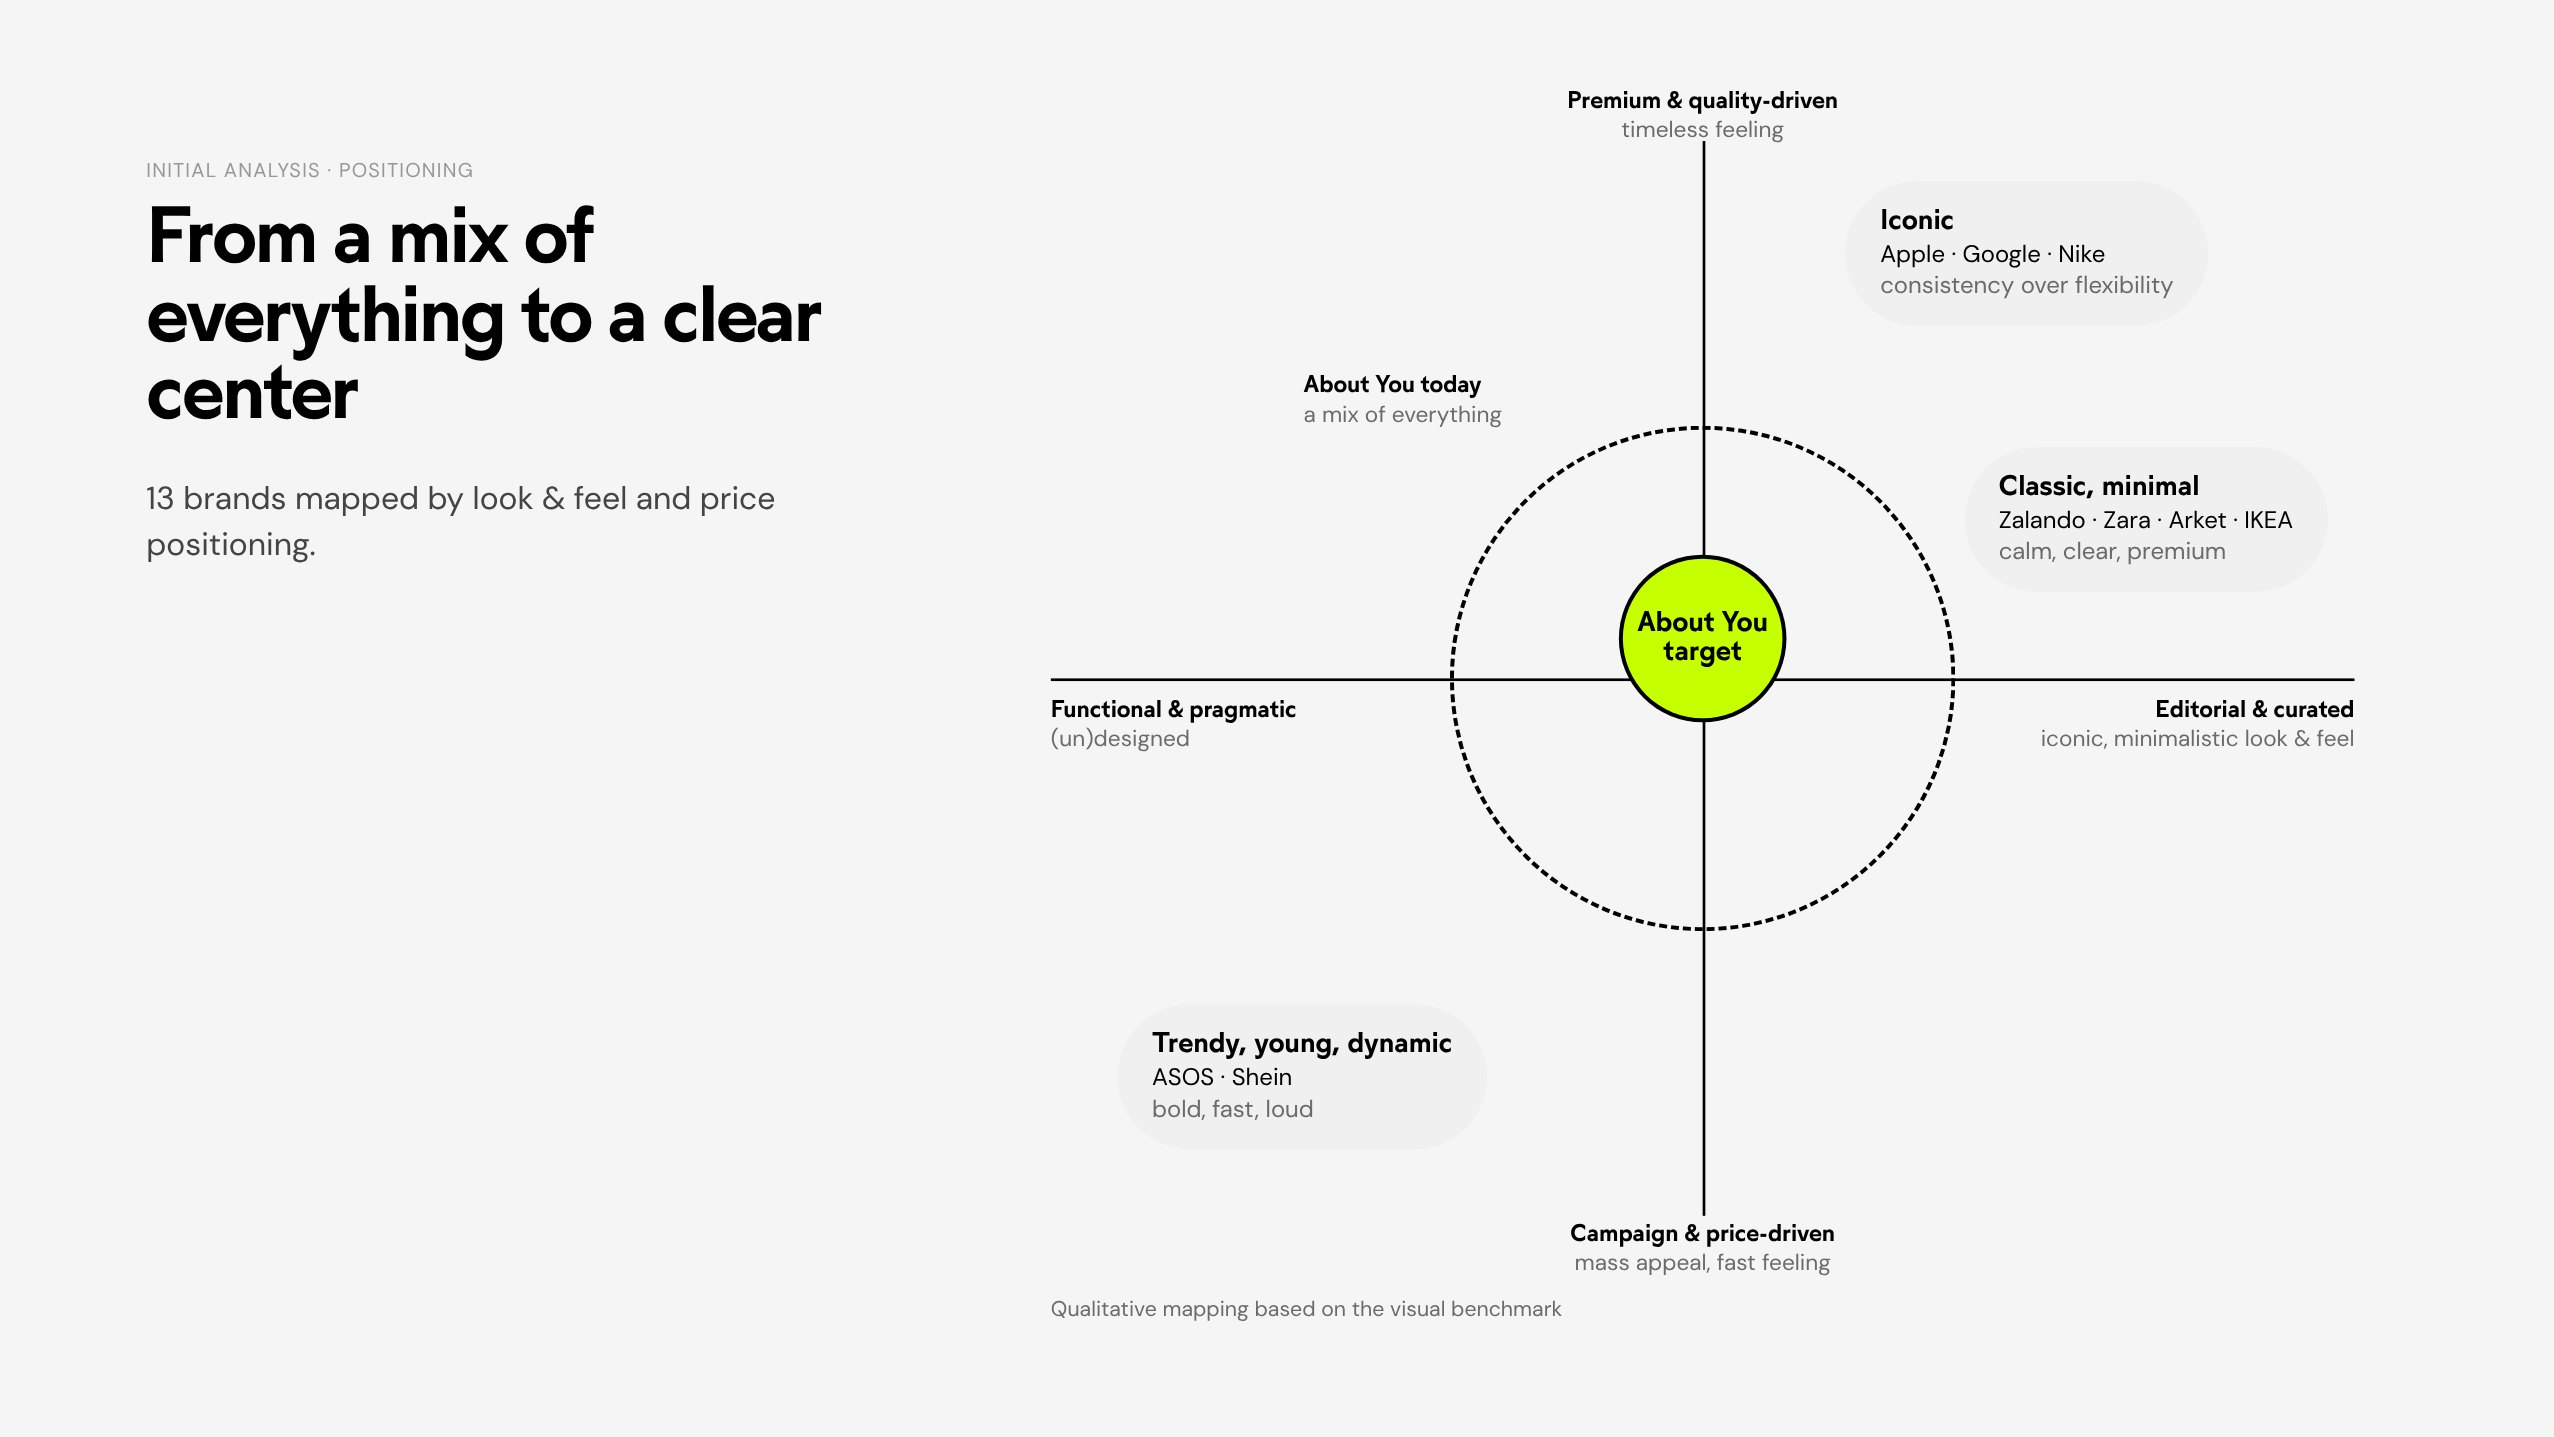
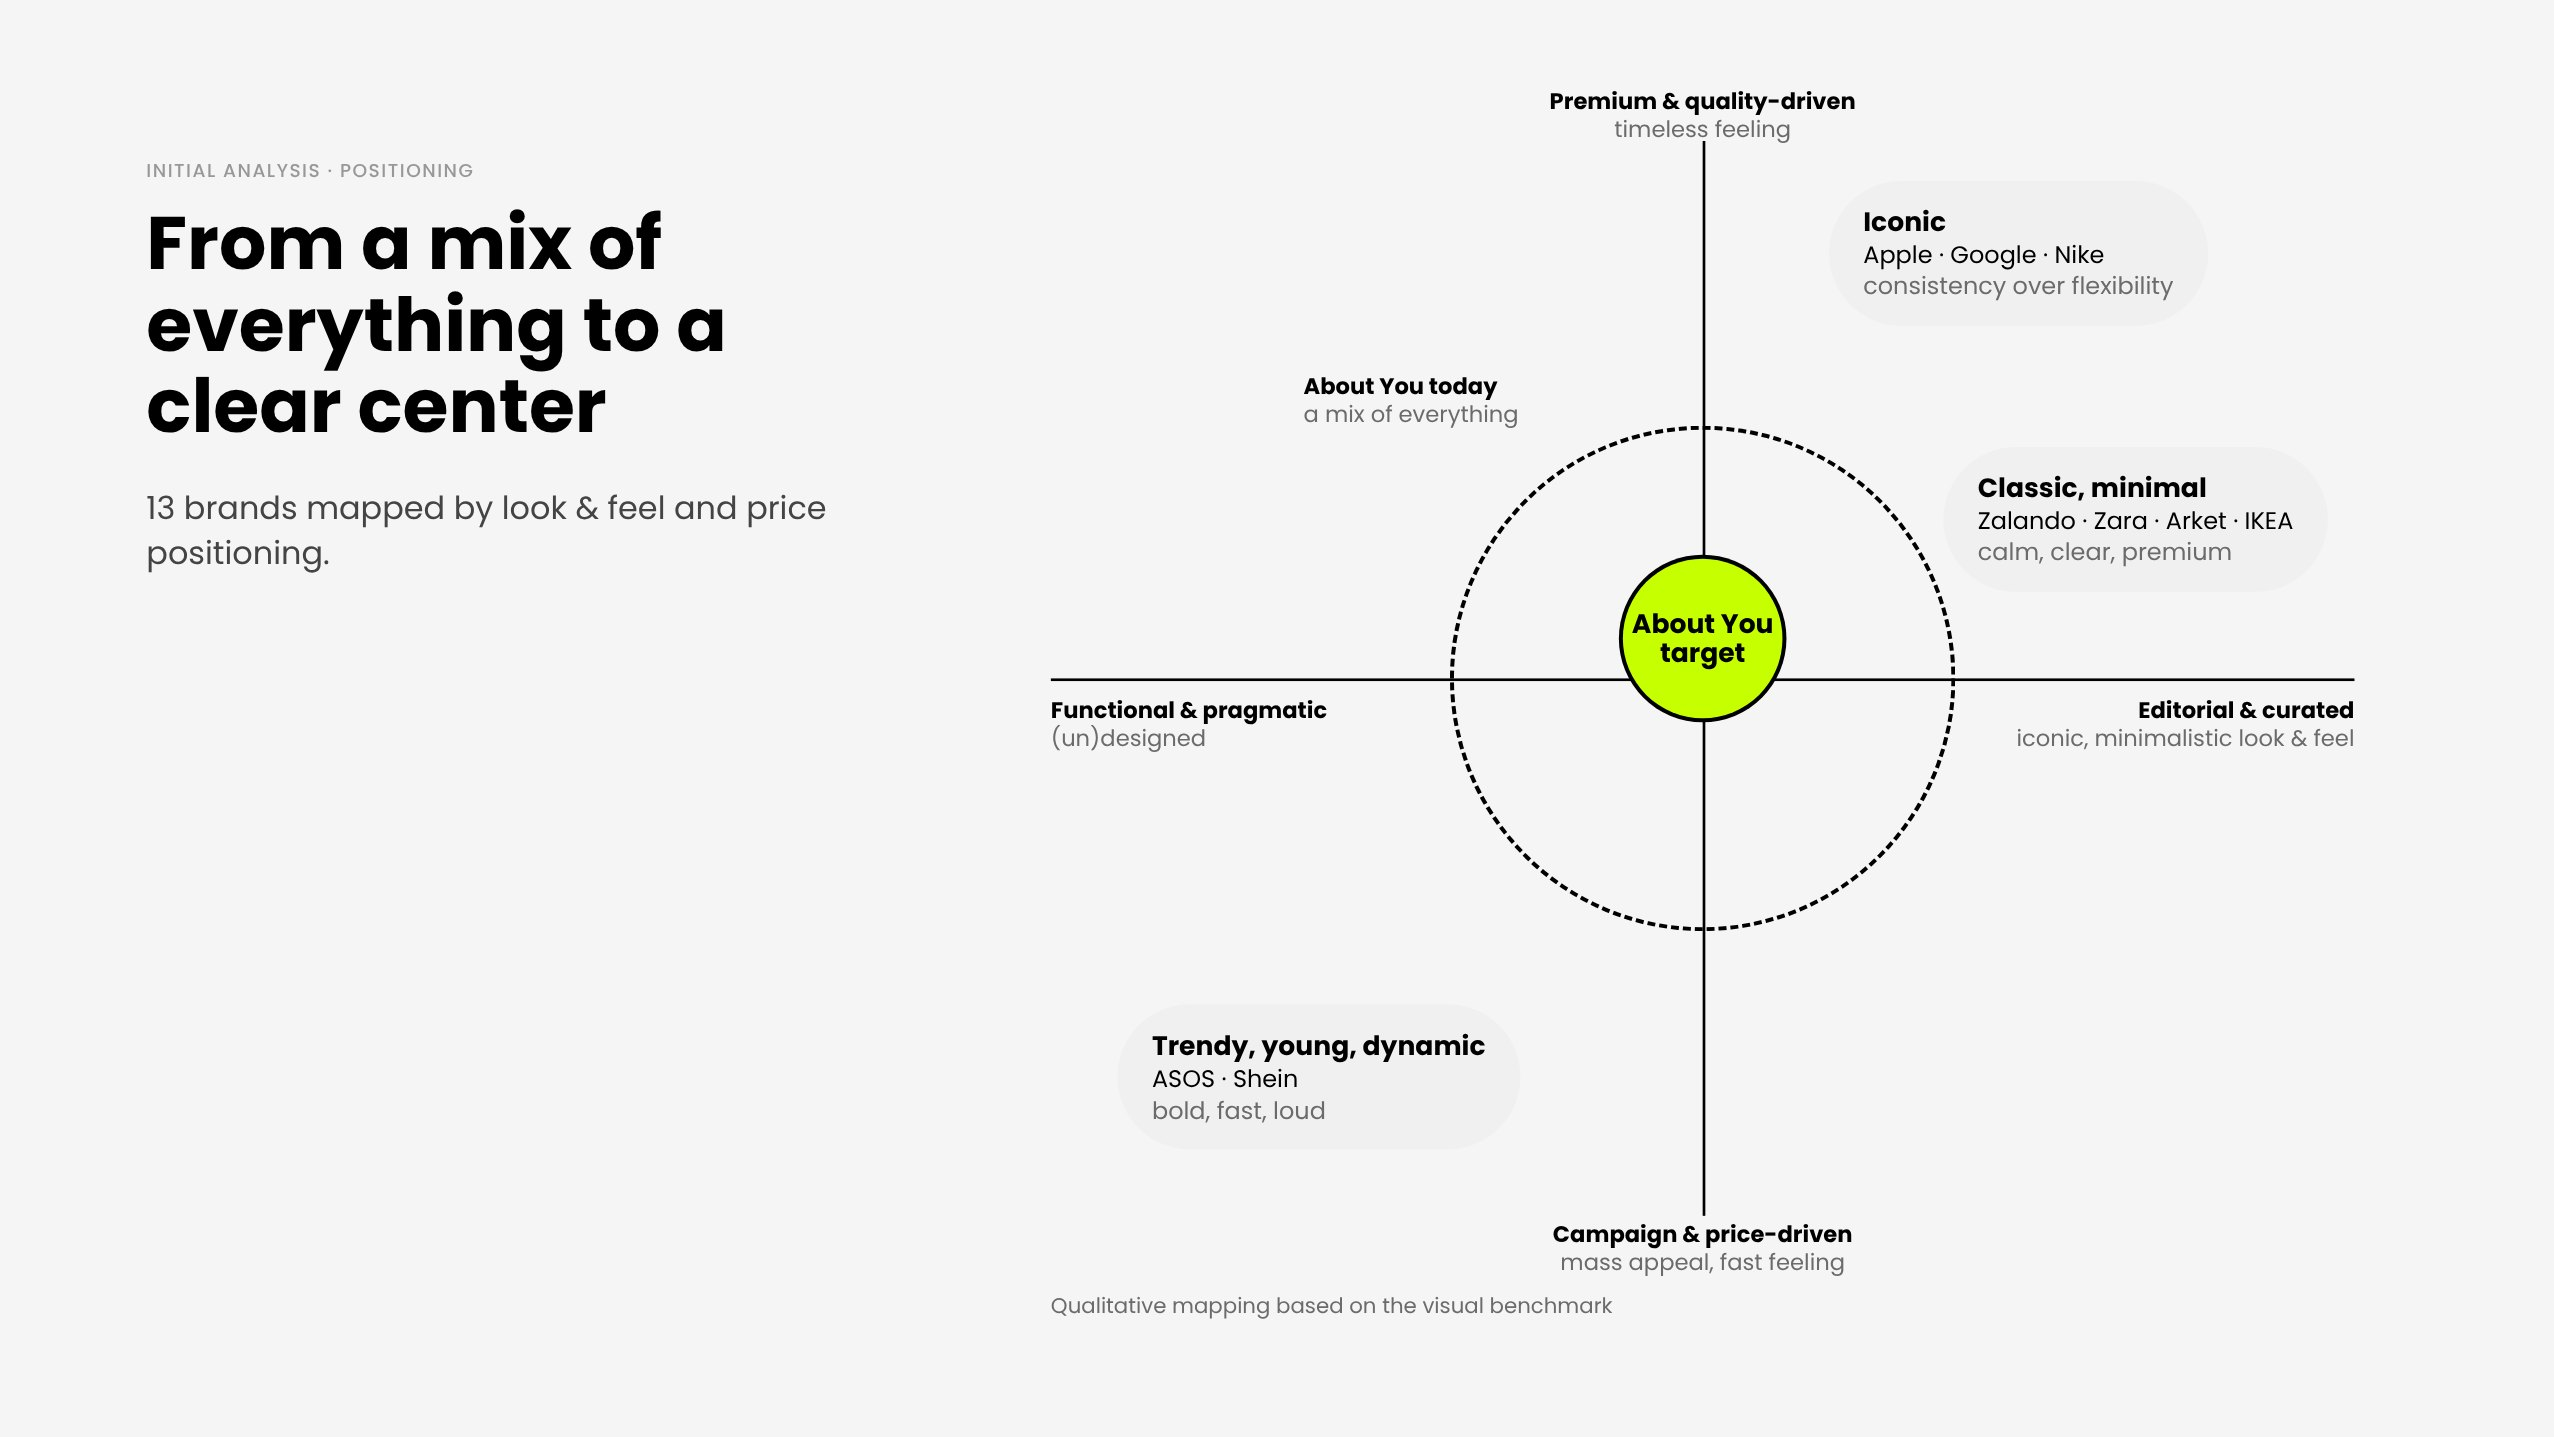
Brand Consistency: set asset text in the About You type system
Headlines bold mixed case, uppercase toplines with letter-spacing,
regular body, per the brand guide. Poppins as the guide's official
fallback for ABC Whyte.

Claude-Session: https://claude.ai/code/session_01EEFsaT795ng18RqbzZtwNk

diff --git a/assets/brand-consistency/CONTENT.md b/assets/brand-consistency/CONTENT.md
@@ -28,7 +28,7 @@ Ready to paste into WordPress → Projects → new entry (ACF fields as used by 
 
 ## `section` (in order)
 
-Composed assets, 2554×1437 JPG, set in the portfolio type system: HW Left Bold for headlines and numbers, uppercase grey labels, DM Sans regular for body text. Each element follows the same order: before → in progress → after → brand guide.
+Composed assets, 2554×1437 JPG, set in the About You type system per brand guide: headlines bold and mixed case without letter-spacing, toplines and labels uppercase with letter-spacing, body regular. Font: Poppins (the guide's official fallback, ABC Whyte files not available). Swap to ABC Whyte when the font files are available. Each element follows the same order: before → in progress → after → brand guide.
 
 | File | Content |
 |---|---|
